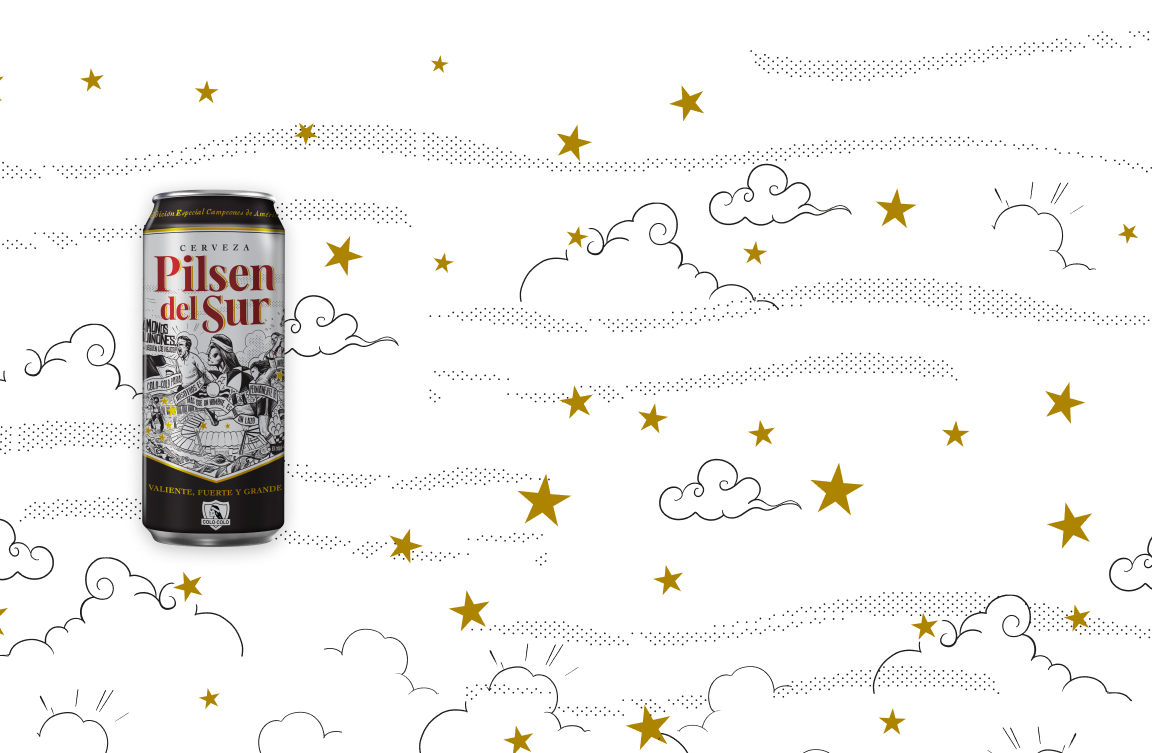
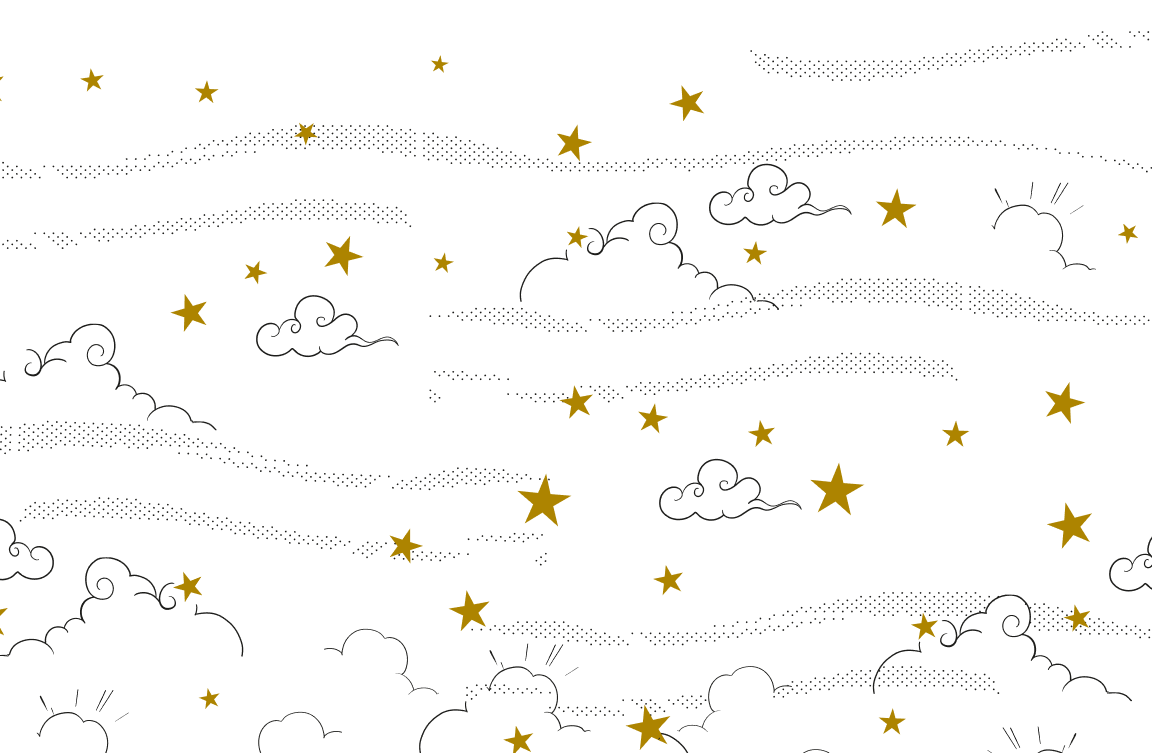
botella ajuste

Changed region(s): [[0.0938, 0.2444, 0.25, 0.7331]]

diff --git a/src/assets/scss/components/_message.scss b/src/assets/scss/components/_message.scss
@@ -84,6 +84,19 @@
     padding: 4rem 0;
   }
 }
+.cc-message__grid{
+  display: flex;
+  padding-top: 30px;
+  justify-content: center;
+}
+.container-botle-mensaje{
+  display: flex;
+  margin: 0 0 0 -20%;
+  img{
+    object-fit: contain;
+    width: 70%;
+  }
+}
 
 @keyframes translateGato {
   from {
@@ -102,13 +115,14 @@
   border: 1px solid #fff;
 }
 .cc-message__content {
+  // justify-content: flex-start;
   background: #e9e9e7;
   font-family: 'DIN Next LT Pro';
   border: 1px solid #EEB400;
   box-sizing: border-box;
   box-shadow: 0px 4px 10px rgba(0, 0, 0, 0.25);
   backdrop-filter: blur(50px);
-  margin: 0 auto;
+  // margin: 0 0 0 10%;
   width: 30%;
   position: relative;
   z-index: 3;

diff --git a/src/views/Trivia.vue b/src/views/Trivia.vue
@@ -19,7 +19,6 @@
                 li.cc-trivia__ask-item
                   input.cc-trivia__ask-input(type="radio" name="answer" id="answerA" value="A" v-model="answerAR")
                   label.cc-trivia__ask-btn(for="answerA") {{ answerA }}
-                  span error
                 li.cc-trivia__ask-item
                   input.cc-trivia__ask-input(type="radio" name="answer" id="answerB" value="B" v-model="answerAR")
                   label.cc-trivia__ask-btn(for="answerB") {{ answerB }}

diff --git a/src/views/Registro.vue b/src/views/Registro.vue
@@ -226,7 +226,7 @@ export default {
       ],
       responsePilsen3: [
         { id: 0, name: "Viendo deporte con amigos" },
-        { id: 1, name: "Compartiendo con amigs en casa o fuerda de casa" },
+        { id: 1, name: "Compartiendo con amigos en casa o fuerda de casa" },
         { id: 2, name: "En casa en un momento de Relax" },
         { id: 3, name: "En una comida solo o acompañado" },
       ],

diff --git a/src/views/Message.vue b/src/views/Message.vue
@@ -4,6 +4,8 @@
     //-   Loader(v-if="finalTime === '' || isLoader", :full="true")
     //- (v-if="finalTime !== '' && isLoader === false")
     .cc-message__grid
+      .container-botle-mensaje
+        img(src="./../assets/img/pilsen/bott-mesage.png", alt="Pilsen del sur")
       .cc-message__content
         header.cc-message__header
           h2(v-if="!isChecked").cc-title.cc-title_brand ¡TERMINASTE!

diff --git a/src/assets/scss/patterns/_layout.scss b/src/assets/scss/patterns/_layout.scss
@@ -70,6 +70,7 @@
 
 .cc-trivia {
   // padding-bottom: 7rem;
+  min-height: 80vh;
   position: relative;
   background-color: #000;
   background-repeat: no-repeat;
